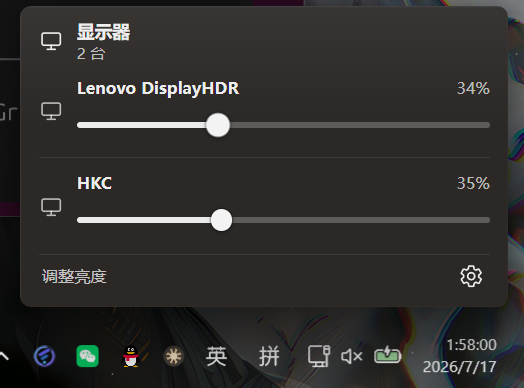
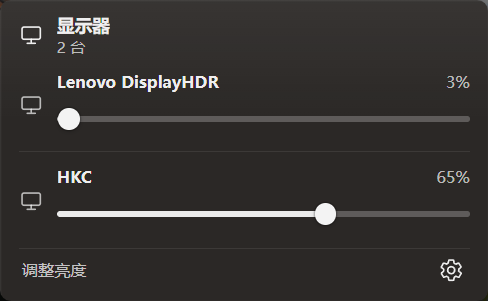
docs+ui: correct screenshots; check-update button on the right
Replace product gallery images and place GitHub check-for-updates
on the right side of the About row.

diff --git a/src/ui/settings.ts b/src/ui/settings.ts
@@ -119,7 +119,7 @@ export class SettingsView {
     this.fillMonitors();
     this.fillUi(cfg);
     this.fillAdvanced(cfg);
-    this.fillAbout(st.version);
+    this.fillAbout();
   }
 
   private fillGeneral(cfg: NonNullable<ReturnType<typeof getState>["config"]>): void {
@@ -439,10 +439,13 @@ export class SettingsView {
     el.appendChild(open);
   }
 
-  private fillAbout(version: string): void {
+  private fillAbout(): void {
     const el = this.root.querySelector('[data-sec="about"]') as HTMLElement;
 
-    // GitHub 图标 + 地址（整行可点）
+    // 一行：左 GitHub（可点打开），右「检查更新」
+    const row = document.createElement("div");
+    row.className = "about-row";
+
     const gh = document.createElement("button");
     gh.type = "button";
     gh.className = "about-github";
@@ -459,14 +462,9 @@ export class SettingsView {
         this.handlers.onToast?.(e instanceof Error ? e.message : String(e));
       });
     });
-    el.appendChild(gh);
 
-    // 检查更新
-    const row = document.createElement("div");
-    row.className = "about-update-row";
-    const status = document.createElement("div");
-    status.className = "about-update-status";
-    status.textContent = t("settings.version", { v: version });
+    const actions = document.createElement("div");
+    actions.className = "about-row__actions";
     const btn = document.createElement("button");
     btn.type = "button";
     btn.className = "text-btn";
@@ -476,6 +474,18 @@ export class SettingsView {
     openRel.className = "text-btn";
     openRel.textContent = t("about.openRelease");
     openRel.hidden = true;
+    actions.appendChild(btn);
+    actions.appendChild(openRel);
+
+    row.appendChild(gh);
+    row.appendChild(actions);
+    el.appendChild(row);
+
+    // 状态单独一行（检查后才显示）
+    const status = document.createElement("div");
+    status.className = "about-update-status";
+    status.hidden = true;
+    el.appendChild(status);
 
     let releaseUrl = "https://github.com/Elnyxn/Lumaris/releases";
     openRel.addEventListener("click", () => {
@@ -486,6 +496,7 @@ export class SettingsView {
 
     btn.addEventListener("click", async () => {
       btn.disabled = true;
+      status.hidden = false;
       status.className = "about-update-status";
       status.textContent = t("about.checking");
       openRel.hidden = true;
@@ -516,11 +527,6 @@ export class SettingsView {
         btn.disabled = false;
       }
     });
-
-    row.appendChild(status);
-    row.appendChild(btn);
-    row.appendChild(openRel);
-    el.appendChild(row);
   }
 
   destroyRecorders(): void {

diff --git a/src/styles/settings.css b/src/styles/settings.css
@@ -152,14 +152,25 @@
   color: var(--text-tertiary);
 }
 
-/* 关于 / GitHub */
+/* 关于 / GitHub：左链接，右检查更新 */
+.about-row {
+  display: flex;
+  align-items: center;
+  justify-content: space-between;
+  gap: 8px;
+  min-height: 44px;
+  padding: 4px 0;
+}
+
 .about-github {
   display: flex;
   align-items: center;
   gap: 10px;
-  width: 100%;
+  flex: 1;
+  min-width: 0;
   min-height: 40px;
-  padding: 6px 0;
+  margin: 0;
+  padding: 4px 6px 4px 2px;
   border: none;
   background: transparent;
   color: var(--text-primary);
@@ -200,17 +211,16 @@
   text-overflow: ellipsis;
 }
 
-.about-update-row {
+.about-row__actions {
   display: flex;
   align-items: center;
-  gap: 8px;
-  flex-wrap: wrap;
-  padding: 4px 0 8px;
+  gap: 4px;
+  flex-shrink: 0;
 }
 
 .about-update-status {
-  flex: 1;
   min-width: 0;
+  padding: 0 2px 8px;
   font-size: 11px;
   color: var(--text-tertiary);
   line-height: 1.35;

diff --git a/README.md b/README.md
@@ -48,15 +48,20 @@
 ## 界面预览
 
 <p align="center">
-  <img src="docs/assets/screenshot-dual.png" width="420" alt="多显示器浮窗" /><br/>
-  <em>多显示器亮度浮窗（上下堆叠）</em>
+  <img src="docs/assets/screenshot-dual.png" width="440" alt="多显示器亮度浮窗" /><br/>
+  <em>多显示器亮度浮窗</em>
 </p>
 
 <p align="center">
-  <img src="docs/assets/screenshot-flyout.png" width="360" alt="单屏浮窗" />
+  <img src="docs/assets/screenshot-flyout.png" width="340" alt="单屏亮度与对比度" />
   &nbsp;
-  <img src="docs/assets/screenshot-settings.png" width="360" alt="设置页" /><br/>
-  <em>单屏调节 · 设置中心</em>
+  <img src="docs/assets/screenshot-light.png" width="340" alt="浅色模式" /><br/>
+  <em>单屏 · 亮度 + 对比度 · 浅色模式</em>
+</p>
+
+<p align="center">
+  <img src="docs/assets/screenshot-settings.png" width="360" alt="设置页面" /><br/>
+  <em>设置页面</em>
 </p>
 
 ---

diff --git a/README.en.md b/README.en.md
@@ -48,15 +48,20 @@
 ## Screenshots
 
 <p align="center">
-  <img src="docs/assets/screenshot-dual.png" width="420" alt="Multi-monitor flyout" /><br/>
-  <em>Multi-monitor brightness flyout (stacked)</em>
+  <img src="docs/assets/screenshot-dual.png" width="440" alt="Multi-monitor brightness flyout" /><br/>
+  <em>Multi-monitor brightness flyout</em>
 </p>
 
 <p align="center">
-  <img src="docs/assets/screenshot-flyout.png" width="360" alt="Single display flyout" />
+  <img src="docs/assets/screenshot-flyout.png" width="340" alt="Single display brightness and contrast" />
   &nbsp;
+  <img src="docs/assets/screenshot-light.png" width="340" alt="Light theme" /><br/>
+  <em>Single display · brightness + contrast · light theme</em>
+</p>
+
+<p align="center">
   <img src="docs/assets/screenshot-settings.png" width="360" alt="Settings" /><br/>
-  <em>Single display · Settings</em>
+  <em>Settings</em>
 </p>
 
 ---